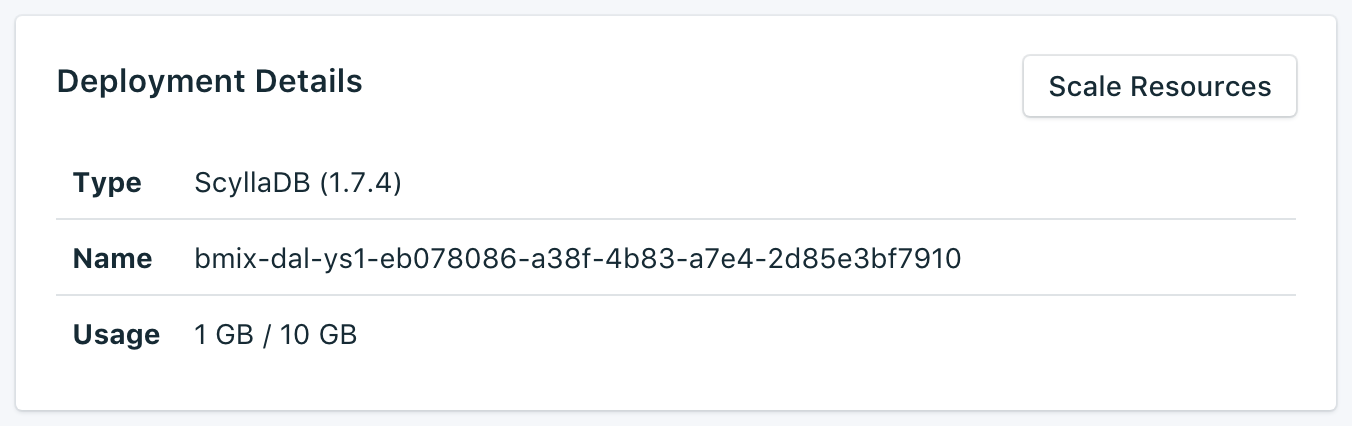
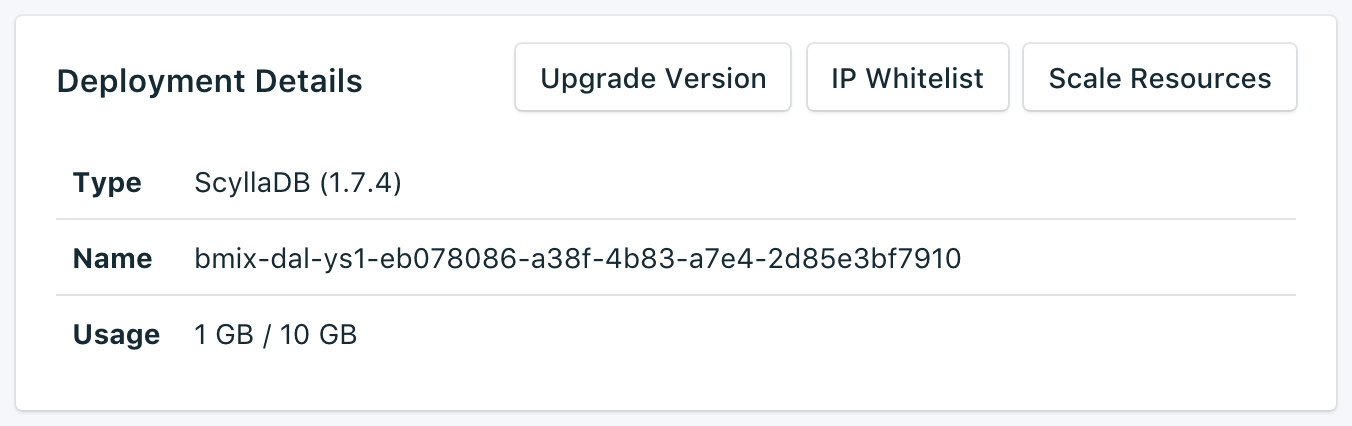
Oct 17 updates

Changed region(s): [[0.3728, 0.0915, 0.963, 0.2746], [0.3728, 0.1526, 0.7456, 0.2136]]

diff --git a/dashboard-whitelists.md b/dashboard-whitelists.md
@@ -1,0 +1,36 @@
+---
+
+Copyright:
+  Years: 2017
+lastupdated: "2017-10-16"
+---
+
+{:new_window: target="_blank"}
+{:shortdesc: .shortdesc}
+{:screen: .screen}
+{:codeblock: .codeblock}
+{:pre: .pre}
+
+# Whitelists
+
+If you want to restrict access to your databases, you can whitelist specific ip addresses or ranges of ip addresses on your service. When there are no IP addresses in the whitelist, the whitelist is disabled and the deployment will accept connections from any system on the internet.
+
+![Whitelisting IPs](./images/scylla-whitelist-show.png "The whitelist fields.")
+
+## IP Addresses
+The *IP* field can take a single complete IPv4 address or IPv6 address with or without a netmask. Without a netmask, incoming connections must come from exactly that IP address. 
+
+Note that although the IP entry allows for IPv6, no Compose deployments are currently available to IPv6 networking and so these addresses cannot be filtered on.
+
+## Netmasks
+To allow a connection from a specified range of IP addresses, use a netmask. The IP address must be fully specified when using a netmask. That means entering, for example, 192.168.1.0/24 rather than 192.168.1/24.
+
+## Description
+The *Description* can be any user-significant text for identifying the whitelist entry - a customer name, project identifier or employee number, for example. The description field is required.
+
+## Compose Services
+Whitelist entries are automatically added to Compose's servers to allow them to connect.
+
+## Removal
+To remove an IP address or netmask from the Whitelist, click the *Remove* entry displayed next to it.
+When all entries on the whitelist are removed, the whitelist will be disabled and all IP addresses will be accepted by the TCP access portals.

diff --git a/dashboard-backups.md b/dashboard-backups.md
@@ -2,7 +2,7 @@
 
 copyright:
   years: 2017
-lastupdated: "2017-09-07"
+lastupdated: "2017-10-16"
 ---
 
 {:new_window: target="_blank"}
@@ -22,12 +22,13 @@ Daily backups of your database are automatically scheduled. To view your existin
 
 ![Backups](./images/scylla-backups-show.png "A list of backups in the service dashboard")
 
+Click on the corresponding row to expand the options for any available backup.
+
+![Backup Options](./images/scylla-backups-options.png "Options for a backup.") 
+
 ## Creating a backup on demand
 
 As well as scheduled backups you can create a backup manually. To create a manual backup, navigate to the *Manage* page of your service dashboard and click *Backup now*.
 
-## Downloading a backup
-
-To download a backup, navigate to the *Manage* page of your service dashboard and click *Download* in the corresponding row for the backup you wish to download.
-
-{{site.data.keyword.composeForScyllaDB}} backups are taken using the nodetool snapshot utility, backing up all the on-disk data files stored in the data directory. The snapshot can run while your databases are on-line. Incremental backups are not enabled on {{site.data.keyword.composeForScyllaDB}} deployments.
+## Restoring a backup
+To restore a backup to a new service instance, follow the steps to view existing backups, then click in the corresponding row to expand the options for the backup you want to download. Click on the **Restore** button. A message is displayed to let you know that a restore has been initiated. The new service instance will automatically be named "scylla-restore-[timestamp]", and appears on your dashboard when provisioning starts.

diff --git a/index.md b/index.md
@@ -29,7 +29,7 @@ When you provision your {{site.data.keyword.composeForScyllaDB}} instance you ca
 
 ## Managing Compose for ScyllaDB
 
-You can manage your service from the service dashboard. Here you can find information about your Bluemix Compose database and how to connect to it. You can also manage your backups from the dashboard and allocated more resources for your service. For more information, see [Service Overview](./dashboard-overview.html), [Backups](./dashboard-backups.html), and [Scaling Resources](./dashboard-scaling-resources.md).
+You can manage your service from the service dashboard. Here you can find information about your Bluemix Compose database and how to connect to it. You can also manage your backups, allocate more resources for your service, and use whitelists to restrict access to your databases. For more information, see [Service Overview](./dashboard-overview.html), [Backups](./dashboard-backups.html), [Scaling Resources](./dashboard-scaling-resources.html), and [Whitelists](./dashboard-whitelists.html).
 
 ## Connecting to Compose for ScyllaDB
 
